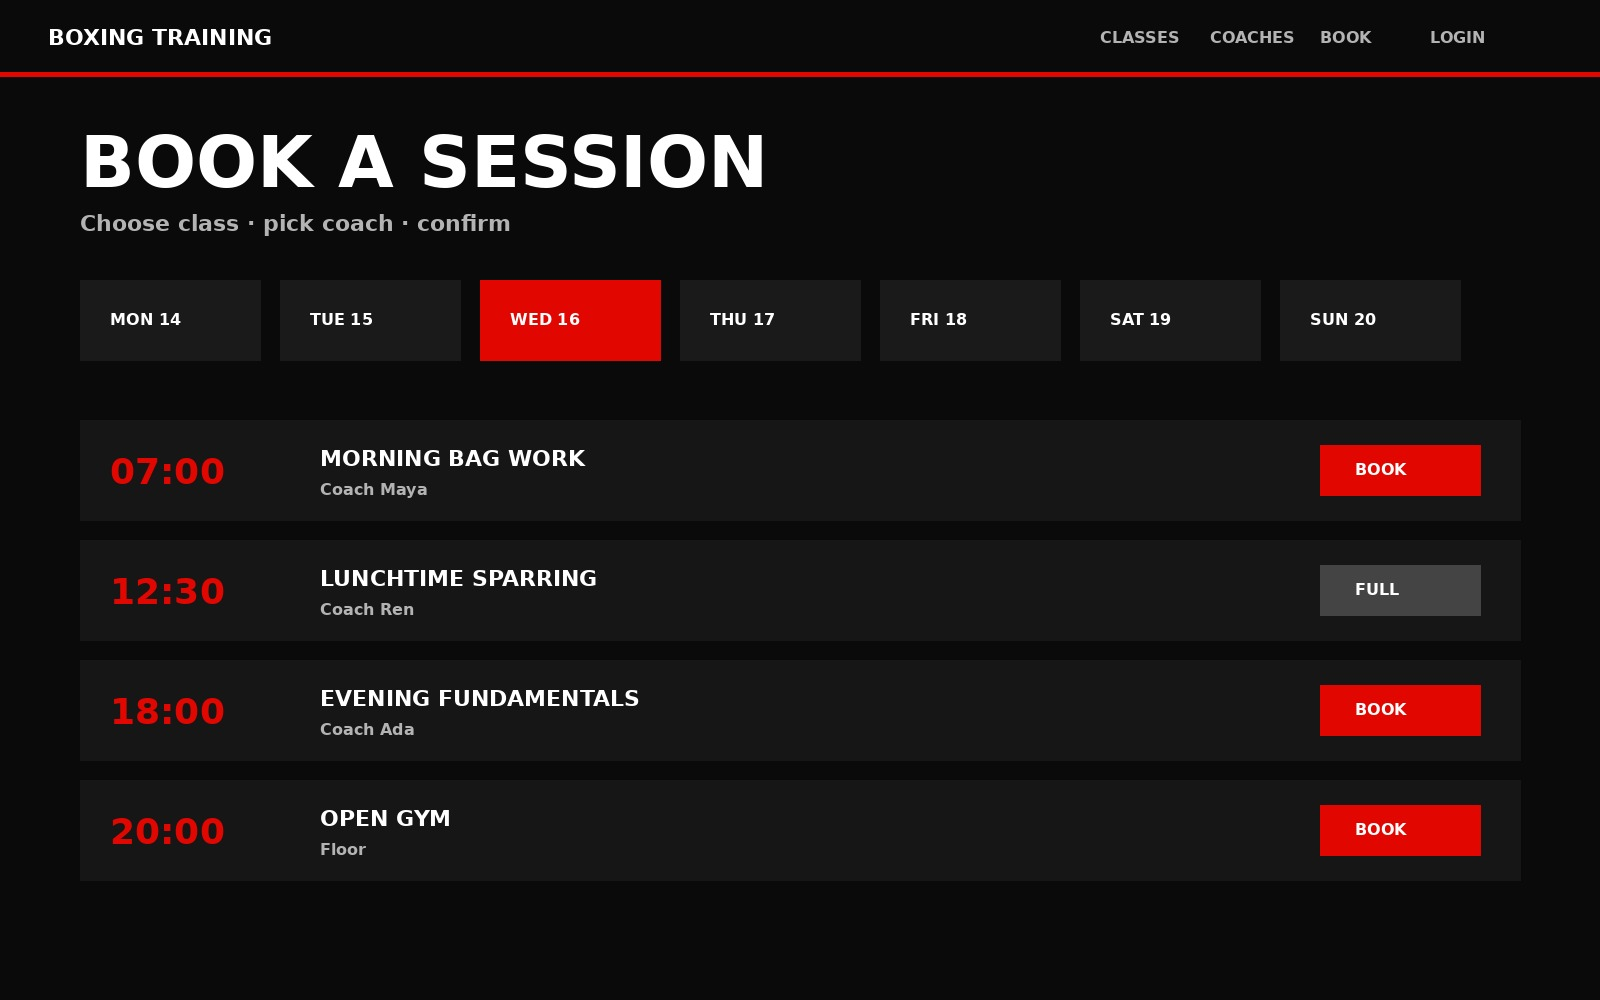
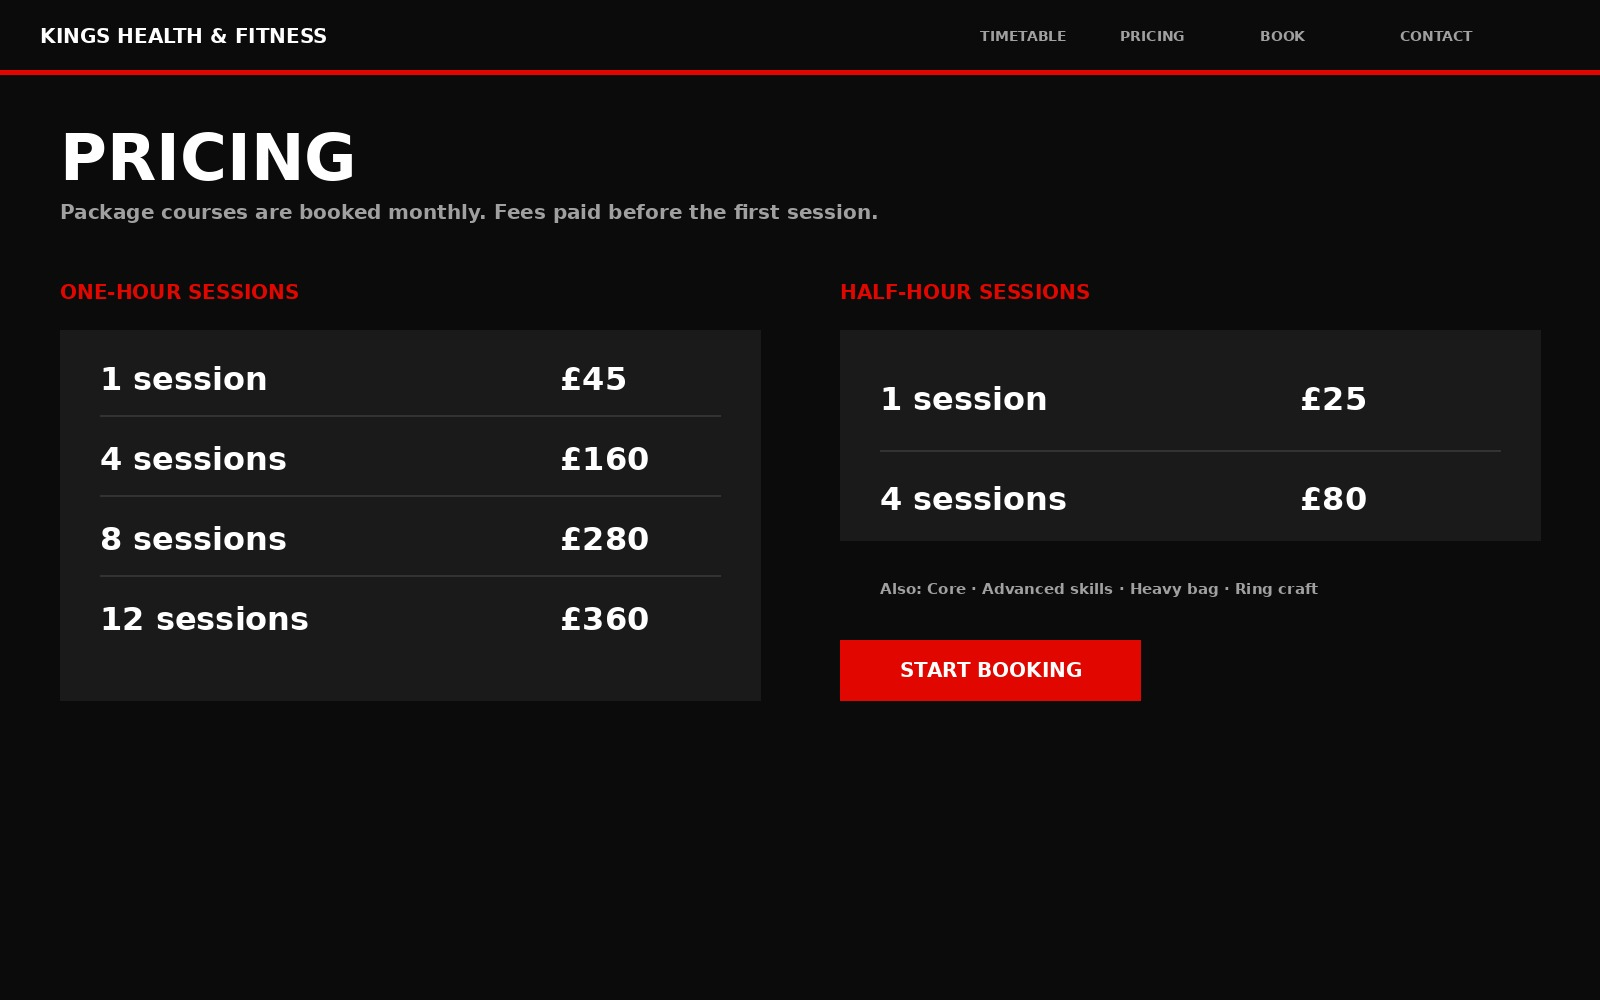
feat: ground Boxing Training case study in Kings Health content
Update GET FOUND entry with Camberwell studio details, pricing/
timetable-led screens, and optional live URL support for linking
the separate Cursor boxing site when available.

diff --git a/src/components/ProjectDetail.tsx b/src/components/ProjectDetail.tsx
@@ -23,6 +23,11 @@ export function ProjectDetail({ project, stream }: ProjectDetailProps) {
         <h1 className="max-w-4xl font-display text-3xl tracking-[0.06em] text-black md:text-5xl">
           {project.title}
         </h1>
+        {project.summary && (
+          <p className="mt-5 max-w-xl font-sans text-base leading-relaxed text-black md:text-[16px]">
+            {project.summary}
+          </p>
+        )}
         <dl className="mt-6 space-y-0.5 font-sans text-sm text-[#6b6b6b] md:text-base">
           <dd>{project.year}</dd>
           <dd>{project.type}</dd>
@@ -31,6 +36,18 @@ export function ProjectDetail({ project, stream }: ProjectDetailProps) {
           {project.location && <dd>{project.location}</dd>}
           {project.client && <dd>{project.client}</dd>}
         </dl>
+        {project.liveUrl && (
+          <p className="mt-6">
+            <a
+              href={project.liveUrl}
+              target="_blank"
+              rel="noopener noreferrer"
+              className="font-display text-sm tracking-[0.12em] text-black hover:text-accent"
+            >
+              VISIT SITE →
+            </a>
+          </p>
+        )}
       </header>
 
       <div className="flex flex-col gap-3 md:gap-4">

diff --git a/src/lib/projects.ts b/src/lib/projects.ts
@@ -15,6 +15,8 @@ export type Project = {
   accent: string;
   cover: string;
   images: string[];
+  summary?: string | null;
+  liveUrl?: string | null;
 };
 
 export const STREAM_META: Record<
